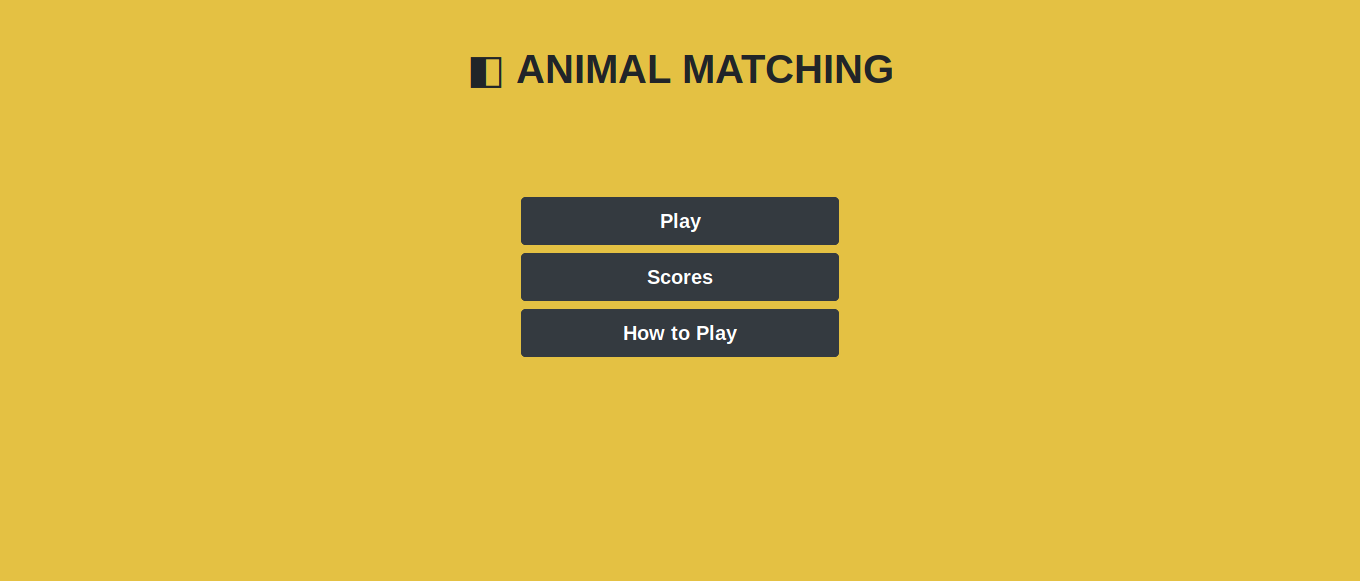
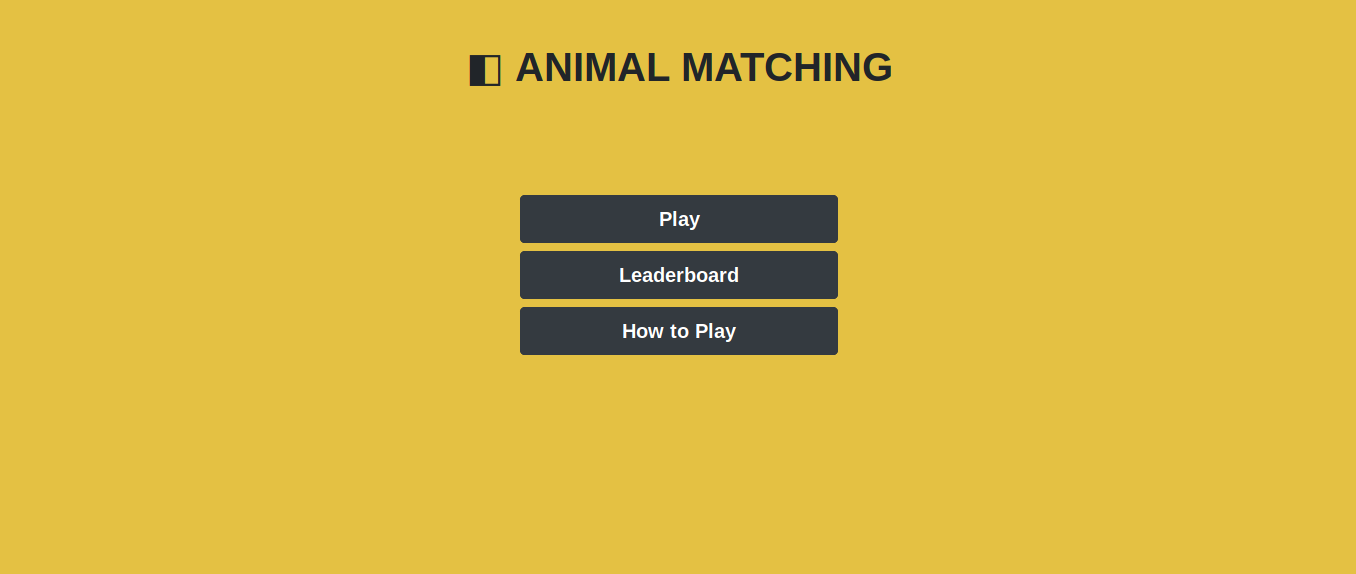
leaderboard

Changed region(s): [[0.3717, 0.3554, 0.6195, 0.5331], [0.3407, 0.0889, 0.6504, 0.1481], [0.3717, 0.5627, 0.6195, 0.622]]

diff --git a/index.html b/index.html
@@ -20,7 +20,7 @@
     <div class="row justify-content-around p-5">
       <div class="col-4">
         <a href="play.html" class="btn btn-dark btn-lg btn-block"><strong>Play</strong></a>
-        <a href="scores.html" class="btn btn-dark btn-lg btn-block"><strong>Scores</strong></a>
+        <a href="leaderboard.html" class="btn btn-dark btn-lg btn-block"><strong>Leaderboard</strong></a>
         <a href="help.html" class="btn btn-dark btn-lg btn-block"><strong>How to Play</strong></a>
       </div>
     </div>
